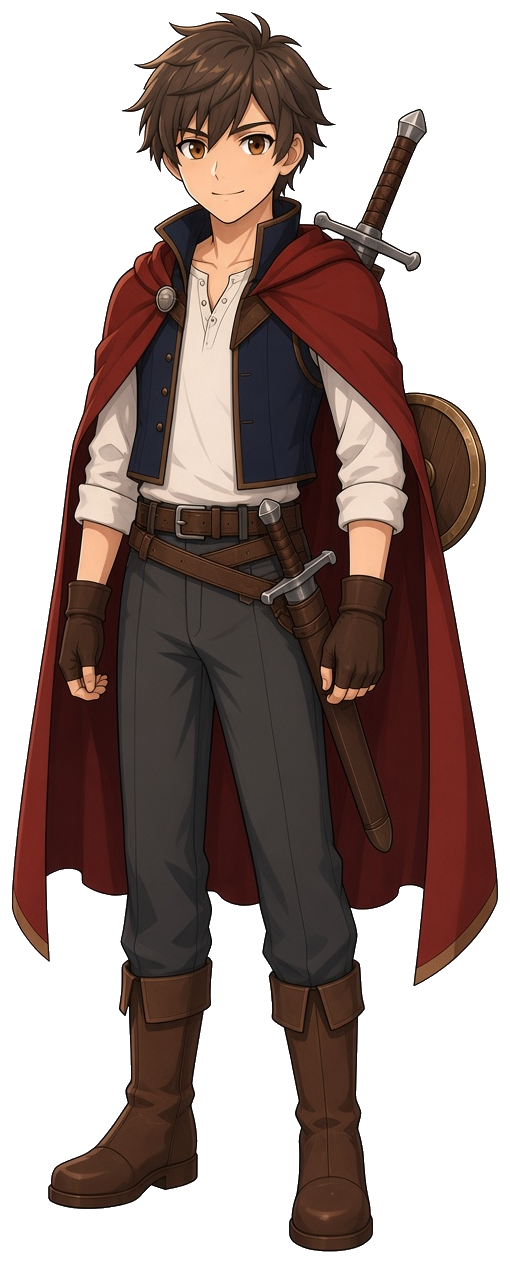
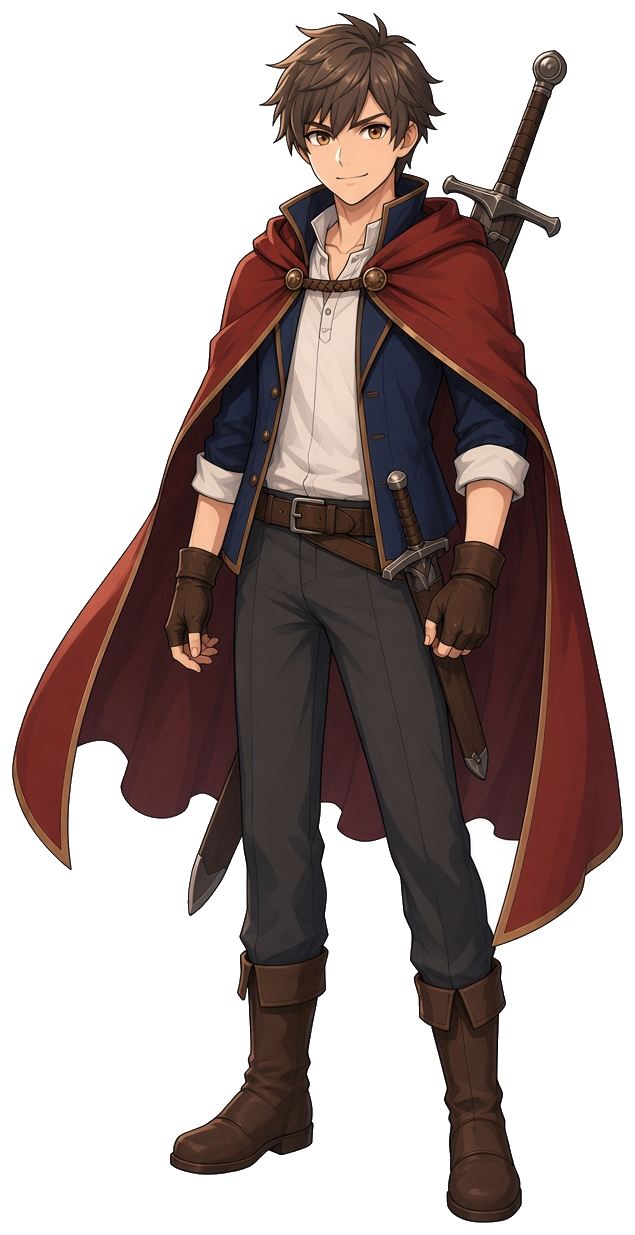
Split the warrior sheet into one image per pose; new front portrait based on the key art.

diff --git a/index.html b/index.html
@@ -506,6 +506,8 @@
     .ref-grid img.back-ref { aspect-ratio: 204 / 300; object-fit: cover; }
     .ref-grid img.land-ref { aspect-ratio: 16 / 9; object-fit: cover; }
     .ref-grid figure.span-2 { grid-column: span 2; }
+    .ref-grid.pose-grid { grid-template-columns: repeat(4, minmax(0, 1fr)); }
+    .ref-grid.pose-grid img.cut-ref { aspect-ratio: 9 / 16; object-position: center bottom; }
     .ref-grid figcaption { margin-top: 6px; text-align: center; font-weight: 800; }
     .cast-screen { position: relative; height: 100%; min-height: 0; display: flex; flex-direction: column; gap: 6px; padding: 10px 28px 16px; overflow: hidden; }
     .cast-back {
@@ -2237,7 +2239,7 @@
     let castLock = "戦士";
     let castShown = "";
     const CAST = [
-      { name: "戦士", stand: "job-front.png?v=3", chibi: "job-warrior.png?v=8", action: "job-action.jpg?v=3" },
+      { name: "戦士", stand: "job-front.png?v=4", chibi: "job-warrior.png?v=8", action: "job-action.jpg?v=3" },
     ];
     let jobsHad = ["戦士"];
     let ultimate = "";
@@ -3991,8 +3993,13 @@
             <h2>設定資料</h2>
             <p class="album-meta">絵はここを正とする。ジョブが変わっても、性別は変えない。</p>
             <h3>戦士</h3>
-            <img class="sheet-art" src="warrior-f-sheet.jpg?v=12" alt="戦士。正面、戦闘（ポケモンの画角）、敗北、勝利。">
-            <p class="sheet-cap">左から、正面、戦闘（ポケモンの画角）、敗北、勝利。</p>
+            <div class="ref-grid pose-grid">
+              <figure><img class="cut-ref" src="job-front.png?v=4" alt="戦士の正面"><figcaption>正面</figcaption></figure>
+              <figure><img class="cut-ref" src="hero-shoulder.png?v=20" alt="戦士の戦闘（ポケモンの画角）"><figcaption>戦闘（ポケモンの画角）</figcaption></figure>
+              <figure><img class="cut-ref" src="warrior-defeat.png?v=1" alt="戦士の敗北"><figcaption>敗北</figcaption></figure>
+              <figure><img class="cut-ref" src="warrior-victory.png?v=1" alt="戦士の勝利"><figcaption>勝利</figcaption></figure>
+            </div>
+            <p class="sheet-cap">向きごとに別の絵。正面は、ジョブの一枚絵を基準にした。</p>
             <h3>女の戦士</h3>
             <img class="sheet-art" src="warrior-girl-sheet.jpg?v=1" alt="女の戦士。正面、戦闘（ポケモンの画角）、敗北、勝利。">
             <p class="sheet-cap">左から、正面、戦闘（ポケモンの画角）、敗北、勝利。いま戦う戦士は、男のまま。</p>
@@ -4004,14 +4011,14 @@
             <p class="sheet-cap">まだ古い絵。向きは六つのまま。</p>
             <div class="sheet-locks">
               <p><b>体</b>戦士は、4頭身。頭は全身のおよそ4分の1。描き直しても変えない。魔法使いは、いまの2頭身のまま。</p>
-              <p><b>戦士</b>赤いマント、白いシャツ、紺の胴着、腰のベルトは一本。肩当ては無い。戦闘のときは、左手に丸い盾、右手にロングソード。腰にショートソード。戦っていないときは、背中のロングソードの上に丸い盾。腰にショートソード。リュックは無い。</p>
+              <p><b>戦士</b>赤いマント、白いシャツ、紺の胴着、腰のベルトは一本。マントは正面の首元で留める。肩当ては無い。戦闘のときは、左手に丸い盾、右手にロングソード。腰にショートソード。戦っていないときは、ロングソードは背中の鞘で、柄は肩の上に大きく出る。盾は背中で、正面からは見えない。腰にショートソード。リュックは無い。</p>
               <p><b>女の戦士</b>別の人。4頭身。頭は全身のおよそ4分の1。蜂蜜色の長い髪を高い結びにして、桃色のリボン。大きな琥珀色の目。やわらかい笑み。薔薇色のマント、金の縁、フードは下ろす。白いブラウス、桃色の胴着、腰のベルトは一本。紺のスカート、灰色の脚衣、茶色のブーツ。大きな剣はマントの上から背中。小さな剣は腰。盾とリュックと肩当ては無い。四つは一枚。左から、正面、戦闘（ポケモンの画角）、敗北、勝利。戦闘は背中で、右を向き、剣を構える。いま戦うのは、男の戦士。</p>
               <p><b>魔法使い</b>女は白、男は黒。杖は同じで、先が一つの渦巻き。戦士の服は使わない。</p>
               <p><b>戦闘</b>自分は、この戦士の背中。ポケモンと同じ構図。右を向き、左手に丸い盾、右手にロングソード。腰にショートソード。表情はきりっとしている。敵はその奥。</p>
             </div>
             <h3>ジョブ選択</h3>
             <div class="ref-grid">
-              <figure><img class="cut-ref" src="job-front.png?v=3" alt=""><figcaption>戦士の立ち絵</figcaption></figure>
+              <figure><img class="cut-ref" src="job-front.png?v=4" alt=""><figcaption>戦士の立ち絵</figcaption></figure>
               <figure class="span-2"><img class="land-ref" src="job-action.jpg?v=3" alt=""><figcaption>戦士の一枚絵</figcaption></figure>
             </div>
             <h3>戦闘の絵</h3>
